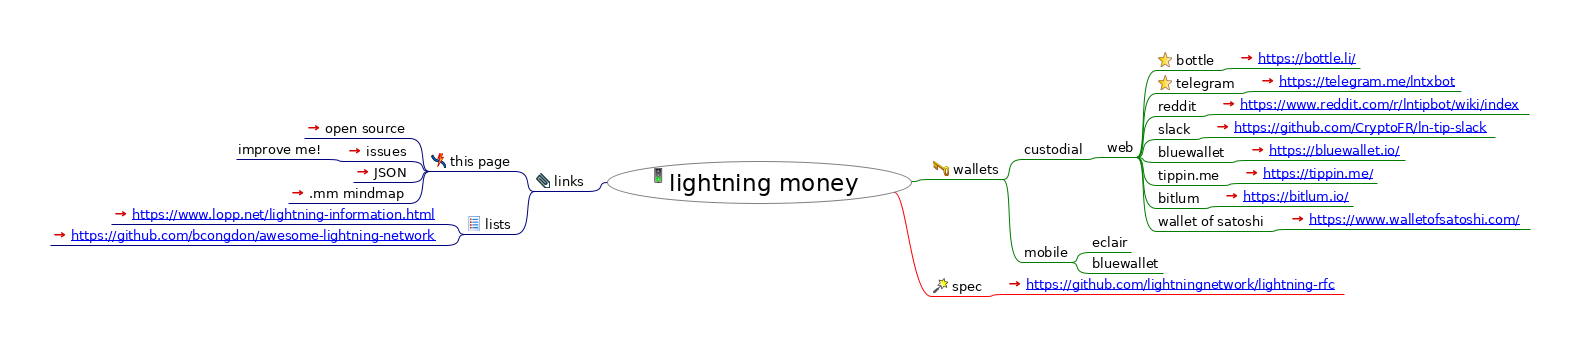
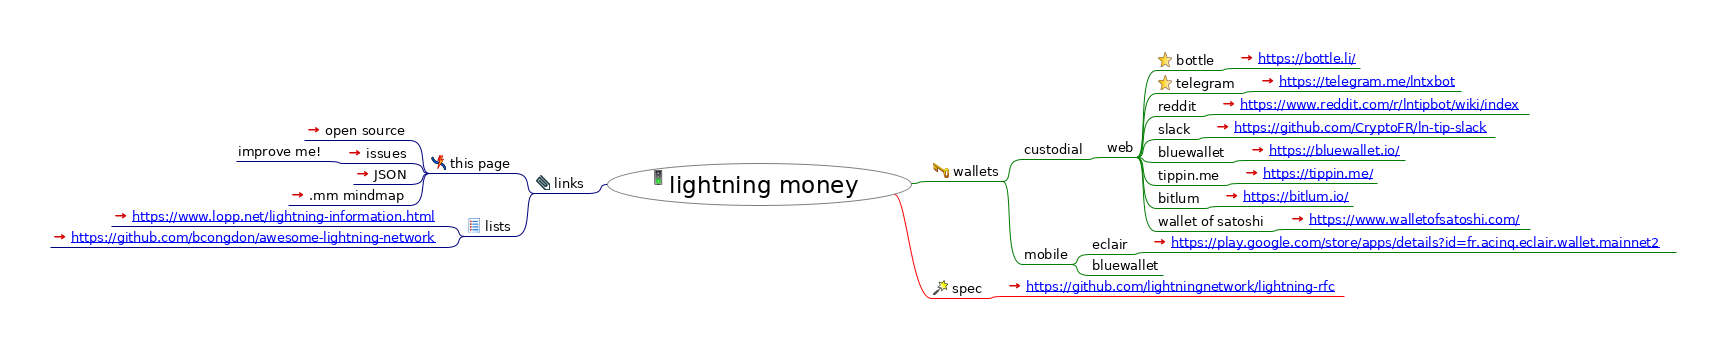
add processhtml script

Changed region(s): [[0.031, 0.1445, 0.9614, 0.8671]]

diff --git a/index.html b/index.html
@@ -23,8 +23,8 @@
                    };
                };
           
-          --></script></head><body><h1>lightning money</h1><div style="width:96%;  padding:2%;  margin-bottom:10px;  border: 0px;  text-align:center;  vertical-align:center;"><img src="index.html_files/image.png" style="margin-bottom:10px; &#9;border: 0px; &#9;text-align:center; &#9;vertical-align:center;" alt="Imagemap" usemap="#fm_imagemap" /></div><map name="fm_imagemap" id="fm_imagemap"><area shape="rect" href="#FMID_1568754813FM" alt="lightning money" title="lightning money" coords="607,161,912,204" />
-<area shape="rect" href="#FMID_403237537FM" alt="wallets" title="wallets" coords="931,161,1003,179" />
+          --></script></head><body><h1>lightning money</h1><div style="width:96%;  padding:2%;  margin-bottom:10px;  border: 0px;  text-align:center;  vertical-align:center;"><img src="index.html_files/image.png" style="margin-bottom:10px; &#9;border: 0px; &#9;text-align:center; &#9;vertical-align:center;" alt="Imagemap" usemap="#fm_imagemap" /></div><map name="fm_imagemap" id="fm_imagemap"><area shape="rect" href="#FMID_1568754813FM" alt="lightning money" title="lightning money" coords="607,163,912,206" />
+<area shape="rect" href="#FMID_403237537FM" alt="wallets" title="wallets" coords="931,163,1003,181" />
 <area shape="rect" href="#FMID_713142011FM" alt="custodial" title="custodial" coords="1022,141,1086,159" />
 <area shape="rect" href="#FMID_1071283894FM" alt="web" title="web" coords="1105,139,1137,157" />
 <area shape="rect" href="#FMID_432921303FM" alt="bottle" title="bottle" coords="1156,52,1218,70" />
@@ -43,21 +43,22 @@
 <area shape="rect" href="#FMID_897640905FM" alt="https://bitlum.io/ " title="https://bitlum.io/ " coords="1222,188,1353,206" />
 <area shape="rect" href="#FMID_1242085439FM" alt="wallet of satoshi" title="wallet of satoshi" coords="1156,213,1269,231" />
 <area shape="rect" href="#FMID_307350684FM" alt="https://www.walletofsatoshi.com/ " title="https://www.walletofsatoshi.com/ " coords="1288,211,1530,229" />
-<area shape="rect" href="#FMID_129906959FM" alt="mobile" title="mobile" coords="1022,244,1071,262" />
-<area shape="rect" href="#FMID_1897401807FM" alt="eclair" title="eclair" coords="1090,234,1131,252" />
-<area shape="rect" href="#FMID_822394219FM" alt="bluewallet" title="bluewallet" coords="1090,255,1163,273" />
-<area shape="rect" href="#FMID_1721082161FM" alt="spec" title="spec" coords="931,278,986,296" />
-<area shape="rect" href="#FMID_1858353829FM" alt="https://github.com/lightningnetwork/ligh ..." title="https://github.com/lightningnetwork/ligh ..." coords="1005,276,1344,294" />
-<area shape="rect" href="#FMID_728396892FM" alt="links" title="links" coords="534,173,588,191" />
-<area shape="rect" href="#FMID_1704672214FM" alt="this page" title="this page" coords="429,153,515,171" />
-<area shape="rect" href="#FMID_1211678675FM" alt="open source" title="open source" coords="304,120,410,138" />
-<area shape="rect" href="#FMID_1677347904FM" alt="issues" title="issues" coords="345,143,410,161" />
-<area shape="rect" href="#FMID_824388782FM" alt="improve me!" title="improve me!" coords="236,141,326,159" />
-<area shape="rect" href="#FMID_903253757FM" alt="JSON" title="JSON" coords="353,164,410,182" />
-<area shape="rect" href="#FMID_963935095FM" alt=".mm mindmap" title=".mm mindmap" coords="288,185,410,203" />
-<area shape="rect" href="#FMID_1744026554FM" alt="lists" title="lists" coords="465,216,515,234" />
-<area shape="rect" href="#FMID_1897426799FM" alt="https://www.lopp.net/lightning-informati ..." title="https://www.lopp.net/lightning-informati ..." coords="111,206,446,224" />
-<area shape="rect" href="#FMID_1244510370FM" alt="https://github.com/bcongdon/awesome-ligh ..." title="https://github.com/bcongdon/awesome-ligh ..." coords="50,227,446,245" />
+<area shape="rect" href="#FMID_129906959FM" alt="mobile" title="mobile" coords="1022,246,1071,264" />
+<area shape="rect" href="#FMID_1897401807FM" alt="eclair" title="eclair" coords="1090,236,1131,254" />
+<area shape="rect" href="#FMID_507622942FM" alt="https://play.google.com/store/apps/detai ..." title="https://play.google.com/store/apps/detai ..." coords="1150,234,1676,252" />
+<area shape="rect" href="#FMID_822394219FM" alt="bluewallet" title="bluewallet" coords="1090,257,1163,275" />
+<area shape="rect" href="#FMID_1721082161FM" alt="spec" title="spec" coords="931,280,986,298" />
+<area shape="rect" href="#FMID_1858353829FM" alt="https://github.com/lightningnetwork/ligh ..." title="https://github.com/lightningnetwork/ligh ..." coords="1005,278,1344,296" />
+<area shape="rect" href="#FMID_728396892FM" alt="links" title="links" coords="534,175,588,193" />
+<area shape="rect" href="#FMID_1704672214FM" alt="this page" title="this page" coords="429,155,515,173" />
+<area shape="rect" href="#FMID_1211678675FM" alt="open source" title="open source" coords="304,122,410,140" />
+<area shape="rect" href="#FMID_1677347904FM" alt="issues" title="issues" coords="345,145,410,163" />
+<area shape="rect" href="#FMID_824388782FM" alt="improve me!" title="improve me!" coords="236,143,326,161" />
+<area shape="rect" href="#FMID_903253757FM" alt="JSON" title="JSON" coords="353,166,410,184" />
+<area shape="rect" href="#FMID_963935095FM" alt=".mm mindmap" title=".mm mindmap" coords="288,187,410,205" />
+<area shape="rect" href="#FMID_1744026554FM" alt="lists" title="lists" coords="465,218,515,236" />
+<area shape="rect" href="#FMID_1897426799FM" alt="https://www.lopp.net/lightning-informati ..." title="https://www.lopp.net/lightning-informati ..." coords="111,208,446,226" />
+<area shape="rect" href="#FMID_1244510370FM" alt="https://github.com/bcongdon/awesome-ligh ..." title="https://github.com/bcongdon/awesome-ligh ..." coords="50,229,446,247" />
 </map>
 
 <div class="node"><img src="index.html_files/hide.png" class="hideshow" alt="hide" onClick="toggle(&quot;N65543&quot;)" id="imgN65543" /><img src="index.html_files/icons/go.svg" alt="go" /> <a id="FMID_1568754813FM" /><div class="nodecontent" style="color:#000000;font-size:150%;">lightning money</div><div class="content" id="N65543"><div class="node"><img src="index.html_files/hide.png" class="hideshow" alt="hide" onClick="toggle(&quot;N66444&quot;)" id="imgN66444" /><img src="index.html_files/icons/password.svg" alt="password" /> <a id="FMID_403237537FM" /><div class="nodecontent" style="color:#000000;font-size:83%;">wallets</div><div class="content" id="N66444"><div class="node"><img src="index.html_files/hide.png" class="hideshow" alt="hide" onClick="toggle(&quot;N66485&quot;)" id="imgN66485" /><a id="FMID_713142011FM" /><div class="nodecontent" style="color:#000000;font-size:83%;">custodial</div><div class="content" id="N66485"><div class="node"><img src="index.html_files/hide.png" class="hideshow" alt="hide" onClick="toggle(&quot;N66520&quot;)" id="imgN66520" /><a id="FMID_1071283894FM" /><div class="nodecontent" style="color:#000000;font-size:83%;">web</div><div class="content" id="N66520"><div class="node"><img src="index.html_files/hide.png" class="hideshow" alt="hide" onClick="toggle(&quot;N66555&quot;)" id="imgN66555" /><img src="index.html_files/icons/bookmark.svg" alt="bookmark" /> <a id="FMID_432921303FM" /><div class="nodecontent" style="color:#000000;font-size:83%;">bottle</div><div class="content" id="N66555"><div class="node"><img src="index.html_files/leaf.png" class="hideshow" alt="leaf" /><a id="FMID_1723379621FM" /><div class="nodecontent" style="color:#000000;font-size:83%;"><a href="https://bottle.li/">
@@ -76,9 +77,11 @@
     <a http-equiv="content-type" content="text/html; charset=utf-8" href="https://bitlum.io/">https://bitlum.io/</a> 
   </a> <a href="https://bitlum.io/"><img src="index.html_files/ilink.png" alt="User Link" style="border-width:0" /></a></div></div></div></div><div class="node"><img src="index.html_files/hide.png" class="hideshow" alt="hide" onClick="toggle(&quot;N67202&quot;)" id="imgN67202" /><a id="FMID_1242085439FM" /><div class="nodecontent" style="color:#000000;font-size:83%;">wallet of satoshi</div><div class="content" id="N67202"><div class="node"><img src="index.html_files/leaf.png" class="hideshow" alt="leaf" /><a id="FMID_307350684FM" /><div class="nodecontent" style="color:#000000;font-size:83%;"><a href="https://www.walletofsatoshi.com/">
     <a http-equiv="content-type" content="text/html; charset=utf-8" href="https://www.walletofsatoshi.com/">https://www.walletofsatoshi.com/</a> 
-  </a> <a href="https://www.walletofsatoshi.com/"><img src="index.html_files/ilink.png" alt="User Link" style="border-width:0" /></a></div></div></div></div></div></div></div></div><div class="node"><img src="index.html_files/hide.png" class="hideshow" alt="hide" onClick="toggle(&quot;N67295&quot;)" id="imgN67295" /><a id="FMID_129906959FM" /><div class="nodecontent" style="color:#000000;font-size:83%;">mobile</div><div class="content" id="N67295"><div class="node"><img src="index.html_files/leaf.png" class="hideshow" alt="leaf" /><a id="FMID_1897401807FM" /><div class="nodecontent" style="color:#000000;font-size:83%;">eclair</div></div><div class="node"><img src="index.html_files/leaf.png" class="hideshow" alt="leaf" /><a id="FMID_822394219FM" /><div class="nodecontent" style="color:#000000;font-size:83%;">bluewallet</div></div></div></div></div></div><div class="node"><img src="index.html_files/hide.png" class="hideshow" alt="hide" onClick="toggle(&quot;N67404&quot;)" id="imgN67404" /><img src="index.html_files/icons/wizard.svg" alt="wizard" /> <a id="FMID_1721082161FM" /><div class="nodecontent" style="color:#000000;font-size:83%;">spec</div><div class="content" id="N67404"><div class="node"><img src="index.html_files/leaf.png" class="hideshow" alt="leaf" /><a id="FMID_1858353829FM" /><div class="nodecontent" style="color:#000000;font-size:83%;"><a href="https://github.com/lightningnetwork/lightning-rfc">
+  </a> <a href="https://www.walletofsatoshi.com/"><img src="index.html_files/ilink.png" alt="User Link" style="border-width:0" /></a></div></div></div></div></div></div></div></div><div class="node"><img src="index.html_files/hide.png" class="hideshow" alt="hide" onClick="toggle(&quot;N67295&quot;)" id="imgN67295" /><a id="FMID_129906959FM" /><div class="nodecontent" style="color:#000000;font-size:83%;">mobile</div><div class="content" id="N67295"><div class="node"><img src="index.html_files/hide.png" class="hideshow" alt="hide" onClick="toggle(&quot;N67330&quot;)" id="imgN67330" /><a id="FMID_1897401807FM" /><div class="nodecontent" style="color:#000000;font-size:83%;">eclair</div><div class="content" id="N67330"><div class="node"><img src="index.html_files/leaf.png" class="hideshow" alt="leaf" /><a id="FMID_507622942FM" /><div class="nodecontent" style="color:#000000;font-size:83%;"><a href="https://play.google.com/store/apps/details?id=fr.acinq.eclair.wallet.mainnet2">
+    <a http-equiv="content-type" content="text/html; charset=utf-8" href="https://play.google.com/store/apps/details?id=fr.acinq.eclair.wallet.mainnet2">https://play.google.com/store/apps/details?id=fr.acinq.eclair.wallet.mainnet2</a> 
+  </a> <a href="https://play.google.com/store/apps/details?id=fr.acinq.eclair.wallet.mainnet2"><img src="index.html_files/ilink.png" alt="User Link" style="border-width:0" /></a></div></div></div></div><div class="node"><img src="index.html_files/leaf.png" class="hideshow" alt="leaf" /><a id="FMID_822394219FM" /><div class="nodecontent" style="color:#000000;font-size:83%;">bluewallet</div></div></div></div></div></div><div class="node"><img src="index.html_files/hide.png" class="hideshow" alt="hide" onClick="toggle(&quot;N67459&quot;)" id="imgN67459" /><img src="index.html_files/icons/wizard.svg" alt="wizard" /> <a id="FMID_1721082161FM" /><div class="nodecontent" style="color:#000000;font-size:83%;">spec</div><div class="content" id="N67459"><div class="node"><img src="index.html_files/leaf.png" class="hideshow" alt="leaf" /><a id="FMID_1858353829FM" /><div class="nodecontent" style="color:#000000;font-size:83%;"><a href="https://github.com/lightningnetwork/lightning-rfc">
     <a http-equiv="content-type" content="text/html; charset=utf-8" href="https://github.com/lightningnetwork/lightning-rfc">https://github.com/lightningnetwork/lightning-rfc</a>
-  </a> <a href="https://github.com/lightningnetwork/lightning-rfc"><img src="index.html_files/ilink.png" alt="User Link" style="border-width:0" /></a></div></div></div></div><div class="node"><img src="index.html_files/hide.png" class="hideshow" alt="hide" onClick="toggle(&quot;N67501&quot;)" id="imgN67501" /><img src="index.html_files/icons/attach.svg" alt="attach" /> <a id="FMID_728396892FM" /><div class="nodecontent" style="color:#000000;font-size:83%;">links</div><div class="content" id="N67501"><div class="node"><img src="index.html_files/hide.png" class="hideshow" alt="hide" onClick="toggle(&quot;N67542&quot;)" id="imgN67542" /><img src="index.html_files/icons/broken-line.svg" alt="broken-line" /> <a id="FMID_1704672214FM" /><div class="nodecontent" style="color:#000000;font-size:83%;">this page</div><div class="content" id="N67542"><div class="node"><img src="index.html_files/leaf.png" class="hideshow" alt="leaf" /><a id="FMID_1211678675FM" /><div class="nodecontent" style="color:#000000;font-size:83%;"><a href="https://github.com/solidpayorg/lightning.money/">open source</a> <a href="https://github.com/solidpayorg/lightning.money/"><img src="index.html_files/ilink.png" alt="User Link" style="border-width:0" /></a></div></div><div class="node"><img src="index.html_files/hide.png" class="hideshow" alt="hide" onClick="toggle(&quot;N67619&quot;)" id="imgN67619" /><a id="FMID_1677347904FM" /><div class="nodecontent" style="color:#000000;font-size:83%;"><a href="https://github.com/solidpayorg/lightning.money/issues">issues</a> <a href="https://github.com/solidpayorg/lightning.money/issues"><img src="index.html_files/ilink.png" alt="User Link" style="border-width:0" /></a></div><div class="content" id="N67619"><div class="node"><img src="index.html_files/leaf.png" class="hideshow" alt="leaf" /><a id="FMID_824388782FM" /><div class="nodecontent" style="color:#000000;font-size:83%;">improve me!</div></div></div></div><div class="node"><img src="index.html_files/leaf.png" class="hideshow" alt="leaf" /><a id="FMID_903253757FM" /><div class="nodecontent" style="color:#000000;font-size:83%;"><a href="index.json">JSON</a> <a href="index.json"><img src="index.html_files/ilink.png" alt="User Link" style="border-width:0" /></a></div></div><div class="node"><img src="index.html_files/leaf.png" class="hideshow" alt="leaf" /><a id="FMID_963935095FM" /><div class="nodecontent" style="color:#000000;font-size:83%;"><a href="index.html">.mm mindmap</a> <a href="index.html"><img src="index.html_files/ilink.png" alt="User Link" style="border-width:0" /></a></div></div></div></div><div class="node"><img src="index.html_files/hide.png" class="hideshow" alt="hide" onClick="toggle(&quot;N67767&quot;)" id="imgN67767" /><img src="index.html_files/icons/list.svg" alt="list" /> <a id="FMID_1744026554FM" /><div class="nodecontent" style="color:#000000;font-size:83%;">lists</div><div class="content" id="N67767"><div class="node"><img src="index.html_files/leaf.png" class="hideshow" alt="leaf" /><a id="FMID_1897426799FM" /><div class="nodecontent" style="color:#000000;font-size:83%;"><a href="https://www.lopp.net/lightning-information.html">
+  </a> <a href="https://github.com/lightningnetwork/lightning-rfc"><img src="index.html_files/ilink.png" alt="User Link" style="border-width:0" /></a></div></div></div></div><div class="node"><img src="index.html_files/hide.png" class="hideshow" alt="hide" onClick="toggle(&quot;N67556&quot;)" id="imgN67556" /><img src="index.html_files/icons/attach.svg" alt="attach" /> <a id="FMID_728396892FM" /><div class="nodecontent" style="color:#000000;font-size:83%;">links</div><div class="content" id="N67556"><div class="node"><img src="index.html_files/hide.png" class="hideshow" alt="hide" onClick="toggle(&quot;N67597&quot;)" id="imgN67597" /><img src="index.html_files/icons/broken-line.svg" alt="broken-line" /> <a id="FMID_1704672214FM" /><div class="nodecontent" style="color:#000000;font-size:83%;">this page</div><div class="content" id="N67597"><div class="node"><img src="index.html_files/leaf.png" class="hideshow" alt="leaf" /><a id="FMID_1211678675FM" /><div class="nodecontent" style="color:#000000;font-size:83%;"><a href="https://github.com/solidpayorg/lightning.money/">open source</a> <a href="https://github.com/solidpayorg/lightning.money/"><img src="index.html_files/ilink.png" alt="User Link" style="border-width:0" /></a></div></div><div class="node"><img src="index.html_files/hide.png" class="hideshow" alt="hide" onClick="toggle(&quot;N67674&quot;)" id="imgN67674" /><a id="FMID_1677347904FM" /><div class="nodecontent" style="color:#000000;font-size:83%;"><a href="https://github.com/solidpayorg/lightning.money/issues">issues</a> <a href="https://github.com/solidpayorg/lightning.money/issues"><img src="index.html_files/ilink.png" alt="User Link" style="border-width:0" /></a></div><div class="content" id="N67674"><div class="node"><img src="index.html_files/leaf.png" class="hideshow" alt="leaf" /><a id="FMID_824388782FM" /><div class="nodecontent" style="color:#000000;font-size:83%;">improve me!</div></div></div></div><div class="node"><img src="index.html_files/leaf.png" class="hideshow" alt="leaf" /><a id="FMID_903253757FM" /><div class="nodecontent" style="color:#000000;font-size:83%;"><a href="index.json">JSON</a> <a href="index.json"><img src="index.html_files/ilink.png" alt="User Link" style="border-width:0" /></a></div></div><div class="node"><img src="index.html_files/leaf.png" class="hideshow" alt="leaf" /><a id="FMID_963935095FM" /><div class="nodecontent" style="color:#000000;font-size:83%;"><a href="index.html">.mm mindmap</a> <a href="index.html"><img src="index.html_files/ilink.png" alt="User Link" style="border-width:0" /></a></div></div></div></div><div class="node"><img src="index.html_files/hide.png" class="hideshow" alt="hide" onClick="toggle(&quot;N67822&quot;)" id="imgN67822" /><img src="index.html_files/icons/list.svg" alt="list" /> <a id="FMID_1744026554FM" /><div class="nodecontent" style="color:#000000;font-size:83%;">lists</div><div class="content" id="N67822"><div class="node"><img src="index.html_files/leaf.png" class="hideshow" alt="leaf" /><a id="FMID_1897426799FM" /><div class="nodecontent" style="color:#000000;font-size:83%;"><a href="https://www.lopp.net/lightning-information.html">
     <a http-equiv="content-type" content="text/html; charset=utf-8" href="https://www.lopp.net/lightning-information.html">https://www.lopp.net/lightning-information.html</a> 
   </a> <a href="https://www.lopp.net/lightning-information.html"><img src="index.html_files/ilink.png" alt="User Link" style="border-width:0" /></a></div></div><div class="node"><img src="index.html_files/leaf.png" class="hideshow" alt="leaf" /><a id="FMID_1244510370FM" /><div class="nodecontent" style="color:#000000;font-size:83%;"><a href="https://github.com/bcongdon/awesome-lightning-network">
     <a http-equiv="content-type" content="text/html; charset=utf-8" href="https://github.com/bcongdon/awesome-lightning-network">https://github.com/bcongdon/awesome-lightning-network</a>

diff --git a/index.mm b/index.mm
@@ -195,7 +195,21 @@
 </node>
 </node>
 <node TEXT="mobile" ID="ID_129906959" CREATED="1569865342316" MODIFIED="1569865344676">
-<node TEXT="eclair" ID="ID_1897401807" CREATED="1569865345413" MODIFIED="1569865346958"/>
+<node TEXT="eclair" ID="ID_1897401807" CREATED="1569865345413" MODIFIED="1569865346958">
+<node ID="ID_507622942" CREATED="1569942566095" MODIFIED="1569942566095" LINK="https://play.google.com/store/apps/details?id=fr.acinq.eclair.wallet.mainnet2"><richcontent TYPE="NODE">
+
+<html>
+  <head>
+    
+  </head>
+  <body>
+    <a http-equiv="content-type" content="text/html; charset=utf-8" href="https://play.google.com/store/apps/details?id=fr.acinq.eclair.wallet.mainnet2">https://play.google.com/store/apps/details?id=fr.acinq.eclair.wallet.mainnet2</a> 
+  </body>
+</html>
+
+</richcontent>
+</node>
+</node>
 <node TEXT="bluewallet" ID="ID_822394219" CREATED="1569865347180" MODIFIED="1569865350013"/>
 </node>
 </node>
